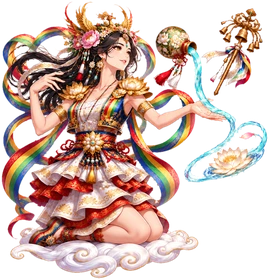
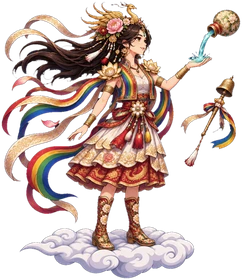
그림체를 원본 게임 그림체 하나로 고정, 다른 기법 삭제 / 바리공주 aw14p 확정
Claude-Session: https://claude.ai/code/session_01X3WCR5nTXLkTaQuYbPMPiQ

diff --git a/game-design/art/도구/cutnavy.py b/game-design/art/도구/cutnavy.py
@@ -1,0 +1,41 @@
+import sys
+from PIL import Image, ImageDraw, ImageFilter, ImageChops
+import importlib.util
+spec=importlib.util.spec_from_file_location('df',__import__('os').path.join(__import__('os').path.dirname(__file__),'defringe.py')); df=importlib.util.module_from_spec(spec); spec.loader.exec_module(df)
+src,out_hi,out_s=sys.argv[1:4]
+im=Image.open(src).convert('RGB'); W,H=im.size
+bgc=im.getpixel((5,5)); print('bg',bgc)
+ref=Image.new('RGB',im.size,bgc)
+diff=ImageChops.difference(im,ref).convert('L')
+diff=Image.merge('RGB',ImageChops.difference(im,ref).split())
+dr,dg,db=diff.split(); dmax=ImageChops.lighter(ImageChops.lighter(dr,dg),db)
+cand=dmax.point(lambda v:255 if v<=22 else 0)
+m=cand.copy()
+for x in range(0,W,4):
+    for y in (0,H-1):
+        if m.getpixel((x,y))==255: ImageDraw.floodfill(m,(x,y),128)
+for y in range(0,H,4):
+    for x in (0,W-1):
+        if m.getpixel((x,y))==255: ImageDraw.floodfill(m,(x,y),128)
+bg=m.point(lambda v:255 if v==128 else 0)
+# trapped bg: large flat navy blobs
+seed=cand.filter(ImageFilter.MinFilter(7)); rec=seed
+for _ in range(10): rec=ImageChops.darker(rec.filter(ImageFilter.MaxFilter(3)),cand)
+bg=ImageChops.lighter(bg,rec)
+fg=ImageChops.invert(bg)
+# drop small isolated pieces (petals)
+lab=fg.copy(); comps=[]
+for y in range(0,H,2):
+    for x in range(0,W,2):
+        if lab.getpixel((x,y))==255:
+            b=lab.histogram()[254]; ImageDraw.floodfill(lab,(x,y),254); comps.append((lab.histogram()[254]-b,(x,y))); ImageDraw.floodfill(lab,(x,y),253)
+comps.sort(reverse=True); print([c[0] for c in comps[:8]])
+keep=Image.new('L',(W,H),0)
+for area,(x,y) in comps:
+    if area>int(sys.argv[4]) if len(sys.argv)>4 else 5000:
+        t=fg.copy(); ImageDraw.floodfill(t,(x,y),128); keep=ImageChops.lighter(keep,t.point(lambda v:255 if v==128 else 0))
+alpha=keep.filter(ImageFilter.GaussianBlur(0.7))
+o=im.convert('RGBA'); o.putalpha(alpha); o=df.defringe(o,1)
+bb=o.getchannel('A').point(lambda v:255 if v>20 else 0).getbbox()
+o=o.crop((max(0,bb[0]-6),max(0,bb[1]-6),min(W,bb[2]+6),min(H,bb[3]+6))); o.save(out_hi)
+s=o.copy(); s.thumbnail((280,280),Image.LANCZOS); s.save(out_s); print(o.size,s.size)

diff --git a/game-design/art/도구/defringe.py b/game-design/art/도구/defringe.py
@@ -1,0 +1,24 @@
+import sys
+from PIL import Image, ImageFilter, ImageChops
+def defringe(im, erode=2):
+    im=im.convert('RGBA'); a=im.getchannel('A')
+    solid=a.point(lambda v:255 if v>40 else 0)
+    inner=solid
+    for _ in range(erode): inner=inner.filter(ImageFilter.MinFilter(3))
+    ring=ImageChops.subtract(solid, inner.filter(ImageFilter.MinFilter(3)))  # edge band
+    # RGB with transparent areas painted white so MinFilter only pulls darker interior colors
+    rgb=Image.new('RGB',im.size,(255,255,255)); rgb.paste(im.convert('RGB'),(0,0),solid)
+    dark=Image.merge('RGB',[c.filter(ImageFilter.MinFilter(5)) for c in rgb.split()])
+    # only replace edge pixels that are much brighter than nearby interior
+    L=rgb.convert('L'); Ld=dark.convert('L')
+    bright=ImageChops.subtract(L,Ld).point(lambda v:255 if v>45 else 0)
+    m=ImageChops.multiply(ring,bright)
+    out_rgb=Image.composite(dark,im.convert('RGB'),m)
+    # shrink alpha by erode px and soften
+    na=a
+    for _ in range(erode): na=na.filter(ImageFilter.MinFilter(3))
+    na=na.filter(ImageFilter.GaussianBlur(0.6))
+    na=ImageChops.darker(na,a)
+    out=out_rgb.convert('RGBA'); out.putalpha(na); return out
+if __name__=='__main__':
+    defringe(Image.open(sys.argv[1]),int(sys.argv[3]) if len(sys.argv)>3 else 2).save(sys.argv[2])

diff --git a/game-design/art/그림_규칙.md b/game-design/art/그림_규칙.md
@@ -1,5 +1,14 @@
 # 그믐 · 그림 만들기 규칙 (필수)
 
+## 00. 단 하나의 그림체 (사용자 확정 11/21, 다른 모든 규칙보다 먼저)
+- **모든 그림(게임 그림·일러스트·컷인·각성·새 자세·새 디자인)은 한 가지 그림체로 그린다: 「게임 그림체」.**
+  - 기준 그림: 원본 게임 그림(`새캐릭터/스프라이트/c*_s`, 주인공 `hp*`, 동료 `p*`)과 같은 칠. 확정 예시: 달래 각성 게임 그림 `게임용/aw1p`, 바리공주 각성 게임 그림 `게임용/aw14p`(11/21, 원본 `c14_bari_s` 한 장 고쳐 그림).
+  - 특징: 차분하고 무광인 채색(번들거림 없음), 붓 느낌 질감, 가늘고 깔끔한 선, 캐릭터 원본의 얼굴·체형·피부톤.
+- **그림체는 내 판단으로 절대 바꾸지 않는다.** 새 자세·새 옷 디자인·새 무기가 들어가도 그림체는 그대로. 바꿔야 할 것 같으면 그리기 전에 사용자 허락을 받는다.
+- **그리는 방법은 하나뿐이다:** 그 캐릭터의 원본 게임 그림 한 장만 참고로 넣고, 원본과 같은 어두운 남색 바탕 그대로 "EDIT this exact image… Keep the exact same art style, line work, muted coloring… Change ONLY ○○" 로 고쳐 그린다. 바꿀 옷·자세·소품은 글로만 적는다. 바탕은 코드로 지운다(`art/도구/cutnavy.py` (사용: `python3 cutnavy.py 원본.png 큰판.png 게임판280.png 5000`)). 작은 부분 수정은 코드로 픽셀을 고친다.
+- **삭제한 방법(쓰지 않음):** 일러스트를 참고로 넣기, 생성한 그림(시안·확정안 포함)을 참고로 넣기, 참고 두 장 이상, 다른 캐릭터·외부 사진(자세·손·무기) 참고, 정면 얼굴 기준 그림, 흰 바탕으로 바꿔 그리기(밝은 일러스트 칠로 바뀜), "saturated cel-plus-gloss" 같은 일러스트 칠 지시문, Higgsfield 배경 제거(머리·구름을 지움).
+- 지금 저장소의 일러스트(각성 일러스트 `aw*`, 컷인 `cut*`, 주인공 `hc*` 등)는 다른 그림체(광택 일러스트)다. 다시 그릴지는 사용자가 정한다. 임의로 다시 그리지 않는다.
+
 ## 0. 최우선 규칙: 원본 그림체를 훼손하지 않는다 (사용자, 11/21)
 - **기본값(default): 그림체와 화풍은 무조건 고정. 어떤 요청에서도 바꾸지 않는다.** (사용자, 11/21 재확인)
 - **그림체·화풍을 바꿔야 할 것 같으면 먼저 사용자 허락을 받는다. 허락 없이 내 판단으로 바꾸지 않는다**(어떤 요청이든, 사용자 11/21).
@@ -40,40 +49,30 @@
 **새 그림은 반드시 기존 그림을 참고로 넣어 그린다. 그림 기법(그림체)은 바꾸지 않는다.** (사용자 결정, 11/21)
 
 ## 1. 무엇을 참고로 넣나
-참고 그림은 **같은 종류의 원본 기준 그림 한 장만** 넣습니다. 두 번째 참고는 쓰지 않습니다(옷·자세·무기·손은 글로 적음).
+**모든 그림: 그 캐릭터의 원본 게임 그림 한 장만**(00절). 일러스트·컷인·각성 일러스트도 같다. 두 번째 참고는 없다.
 
-| 만드는 그림 | 참고(한 장만) |
+| 캐릭터 | 원본 게임 그림(유일한 참고) |
 |---|---|
-| 각성 일러스트(16:9) | 그 캐릭터의 기존 각성 일러스트 `art/각성/awake_*.png` |
-| 일러스트·컷인(정사각) | 그 캐릭터의 기존 일러스트(`hc0x`·`hc1_o0`·`hc2n`, 동료 `cut*x`, 새 캐릭터 `art/새캐릭터/일러스트/`) |
-| 여러 캐릭터가 함께 나오는 그림(협력 등) | 한별 일러스트 `hc0x` (다른 캐릭터는 글로) |
-| 게임 그림(구름 탄 작은 그림) | 그 캐릭터의 기존 게임 그림(`hp0`·`hp1_o0`·`hp2n`·`p*`) |
-| 기존 그림이 없는 새 캐릭터 | 같은 종류의 한별 그림(`hc0x` 또는 `hp0`) |
+| 한별 · 달래 · 나린 | `hp0` · `hp1_o0` · `hp2n` |
+| 동료 | `p*` |
+| 새 캐릭터 | `새캐릭터/스프라이트/c13~c22_*_s_hi` (= 게임 `p13`~`p22`) |
+| 원본 게임 그림이 없는 캐릭터 | 그리기 전에 사용자에게 묻는다 |
 
-- 게임 그림을 그릴 때 일러스트를, 일러스트를 그릴 때 게임 그림을 첫 참고로 넣지 않는다(얼굴·선이 달라짐).
-- 참고 없이 글로만 그리지 않는다.
-- **참고는 언제나 「원본 기준 그림」(아래 1-1 표) 한 장이다. 새로 생성한 그림(시안·고른 안·확정안 포함)은 어떤 자리에도 참고로 넣지 않는다.** 새 그림을 다시 참고로 넣으면 그릴 때마다 그림체가 조금씩 더 벗어난다(11/21 달래 시안, 바리공주 게임 그림에서 실제로 생김). 고른 시안의 옷·색·자세는 글로 옮겨 적는다.
-
-### 1-1. 원본 기준 그림 (이것만 참고로 씀)
-| 캐릭터 | 일러스트 기준 | 각성 일러스트 기준 | 게임 그림 기준 |
-|---|---|---|---|
-| 한별 | `hc0x` | `art/각성/awake_hanbyeol.png` | `hp0` |
-| 달래 | `hc1w` / `hc1_o0` | `art/각성/awake_dallae.png` | `hp1_o0` |
-| 나린 | `hc2n` | `art/각성/awake_narin.png` | `hp2n` |
-| 동료 | `cut*x` | (없음 → 한별 각성 기준) | `p*` |
-| 새 캐릭터 | `art/새캐릭터/일러스트/` 1차 생성본 | (없음 → 한별 각성 기준) | `p13`~`p22` |
+- 참고 없이 글로만 그리지 않는다. 새로 생성한 그림은 어떤 자리에도 참고로 넣지 않는다(벗어남이 쌓임, 11/21 바리공주).
+- 16:9 일러스트처럼 크게 그릴 때도 같은 원본 게임 그림을 넣고 "same art style, larger and closer" 로만 적는다.
 
 ## 2. 지시문 첫 문장 (고정)
 ```
-Copy the EXACT art style of the first reference image: same rendering, same bold clean line art, same saturated cel-plus-gloss coloring, same lighting and same camera scale (character large and close, filling most of the frame). Same face and hair as the reference.
+EDIT this exact image. Keep the exact same art style, line work, muted coloring, saturation, contrast, texture and lighting of this image, same face, same hair, same skin tone, same body proportions and same character size. Keep the same plain flat dark navy background. Change ONLY:
 ```
-그다음에 옷·자세·배경만 적는다. "watercolor", "painterly", "soft" 같은 그림체 말은 쓰지 않는다.
+그다음에 바꿀 옷·자세·소품만 글로 적고 "Do not change the art style." 로 끝낸다. "glowing·soft·pale·sheer·pastel·saturated·glossy·watercolor·painterly" 같은 칠 말은 쓰지 않는다.
 
 ## 3. 보내기 전 확인
 1. 새 그림을 **원본 기준 그림 옆에 나란히** 놓고 비교한다(직전 시안과 비교하지 않음): 선 굵기, 채색, 얼굴 생김새, 몸 비율(가슴 등이 원본보다 커지지 않았는지), 캐릭터 크기.
 2. 다르면 사용자에게 보내지 않고 다시 그린다.
 3. 15세 기준(기획 3): 수영복 수준까지, 몸 강조 구도·누운 자세·다리 벌린 자세·비치는 천 없음.
-4. 배경을 지우는 그림은 Higgsfield 배경 제거 후 테두리 1픽셀 다듬기(흰 띠 제거), 어두운 바탕에 확대해서 흰 띠·남은 흰 덩어리가 없는지 본다.
+4. 배경은 코드로 지운다(남색 바탕 flood fill + 작은 조각 제거 + 테두리 1픽셀 다듬기, `cutnavy.py`). 다른 색 바탕에 확대해서 남은 바탕·끊긴 곳이 없는지 본다.
+5. 비교 기준 그림은 원본 게임 그림과 확정 예시 `aw1p`·`aw14p`. 채도·밝기 평균도 재서 비교한다.
 
 ## 4. Higgsfield에 올려 둔 참고 그림 (다시 올리지 않고 씀)
 | 참고 | media/job id |
@@ -86,7 +85,8 @@ Copy the EXACT art style of the first reference image: same rendering, same bold
 | 달래 게임 그림 `hp1_o0`(흰 바탕) | f66b7bf4-6fdd-4886-ab5d-14a059f549f1 |
 | 나린 게임 그림 `hp2n`(흰 바탕) | 1d5d03ad-edd4-4a27-b41f-52030570dc69 |
 | (참고로 쓰지 않음) 각성 모습 한별·달래·나린 | 4ce18e59-42d2-40d0-bff3-7a210c28f545 · 8dcc10a5-f3a8-4df4-8d5f-d469ebf815db · 1a356037-c0d8-4be3-8fac-15c82cc2fae1 |
-| 새 캐릭터 일러스트 c13~c22 | 0d6ffbdb… 저승사자 · 5ea0dd70… 바리공주 · 47c1f68c… 해태 · 6e5f1613… 홍길동 · ed347318… 우렁각시 · 670d88a7… 직녀 · 700a37cd… 산군 · 98cc39e9… 처용 · 44d3267b… 선녀 · 6f809a62… 강림도령 (전체 id는 대화 기록·커밋 메시지 참고) |
+| 바리공주 원본 게임 그림 `c14_bari_s_hi`(남색 바탕) | a2744e75-eee0-4a76-9d3c-7ddf24fd74d9 |
+| (참고로 쓰지 않음) 새 캐릭터 일러스트 c13~c22 | 0d6ffbdb… 저승사자 · 5ea0dd70… 바리공주 · 47c1f68c… 해태 · 6e5f1613… 홍길동 · ed347318… 우렁각시 · 670d88a7… 직녀 · 700a37cd… 산군 · 98cc39e9… 처용 · 44d3267b… 선녀 · 6f809a62… 강림도령 (전체 id는 대화 기록·커밋 메시지 참고) |
 
 ## 5. 손·팔 (11/21 장승 자매에서 두 번 틀림)
 - AI는 손이 큰 무기를 복잡하게 쥐는 모양(두 손 엇갈려 쥐기, 비튼 손목)을 자주 틀리게 그린다. 손이 팔과 따로 놀거나 방향이 반대가 된다.
@@ -95,4 +95,4 @@ Copy the EXACT art style of the first reference image: same rendering, same bold
 - 손 모양 참고 사진(피규어 등)을 넣는 방법은 삭제(그림체가 섞임). 무기를 쥐지 않는 자세(떠 있는 무기, 손바닥으로 쏘기)로 정한다(사용자: "무기잡지마라").
 - **손처럼 작은 부분을 고칠 때는 전체 그림을 고치지 말고, 그 부분만 크게 잘라 고친 뒤 원래 그림에 붙인다**(전체 고치기는 손을 거의 그대로 둠, 11/21 장승 자매 3번 실패 → 잘라 고치기 1번에 성공).
 - **같은 부분을 두 번 고쳐도 안 바뀌면 더 돌리지 않고 사용자에게 먼저 말한다.** 다시 그린 뒤에는 이전 판과 확대 비교해서 실제로 바뀐 것만 보고한다.
-- **각성 게임 그림은 자세를 새로 정하지 않는다.** 원본 게임 그림 한 장만 넣고 "EDIT this exact image… 자세·크기·얼굴 그대로, 옷과 소품만" 으로 고친다(11/21 바리공주: 새 자세로 그린 판은 체형·크기가 바뀌어 반려, 원본 고치기 판은 통과).
+- **각성 게임 그림은 원본 게임 그림 한 장을 고쳐 그린다.** 자세를 바꿀 때도 그림을 넣지 않고 글로만 적는다(11/21 바리공주: 원본 `c14_bari_s` 한 장 + 글로 "서서 손바닥 내밂" → 통과).

diff --git a/game-design/art/바리공주각성/README.md b/game-design/art/바리공주각성/README.md
@@ -12,3 +12,7 @@
 - 사용자 판정(B6): 확정 → 각성 일러스트 `../게임용/aw14.webp`
 - 게임 그림 `../게임용/aw14p.webp`(280px)/`aw14p_hi.webp`: 첫 참고 원본 게임 그림 p14, 옷 B3 디자인(원본 색). 구름 위 무릎, 떠 있는 병에서 물이 손바닥 위로. job cf39e0a4 → 배경 흰색으로 고쳐(201172b9) 직접 지움
 - 사용자: 게임 그림 그림체가 또 틀어짐(자세를 새로 지정했던 판 cf39e0a4 폐기) → **원본 게임 그림 한 장을 그대로 고쳐 그리기**(자세·크기·얼굴 유지, 옷과 손 소품만 변경): job e10bea02-b562-480d-9d08-af5d419a3149, 배경 흰색 6ac7c02e → `../게임용/aw14p.webp` 교체
+
+## 각성 게임 그림 확정 (11/21)
+- `aw14p_hi.webp` / 게임 `게임용/aw14p.webp`(242×280): 원본 게임 그림 `c14_bari_s` 한 장만 참고로 고쳐 그림(게임 그림체). 서서 오른쪽을 봄, 떠 있는 병의 물이 펼친 손바닥에 떨어짐, 방울 지팡이 떠 있음, 손에 쥔 것 없음.
+- 이 그림체가 모든 그림의 기준(그림 규칙 00절). 이전 판(일러스트 B6을 참고로 그린 무릎·서 있는 판)은 그림체가 섞여 폐기.

diff --git a/game-design/00_결정사항.md b/game-design/00_결정사항.md
@@ -156,3 +156,4 @@
 | 2026-11-21 | 바리공주 각성 게임 그림 aw14p 재교체(이전 판 그림체 반려). 원본 p14와 같은 병 붓는 자세 |
 | 2026-11-21 | 바리공주 각성 게임 그림 aw14p 재교체: 확정 일러스트 aw14와 같은 그림체(무릎 꿇고 손바닥으로 물 이끔, 손에 쥔 것 없음) |
 | 2026-11-21 | 그림 규칙: AI 참고 그림은 원본 기준 그림 한 장만. 생성본(확정안 포함)·외부 사진·두 번째 참고·정면 얼굴 기준 그림·손 모양 사진 방법 삭제. 옷·자세는 글로만. 그림체 변경은 사용자 허락 후에만 |
+| 2026-11-21 | 그림체 하나로 고정: 원본 게임 그림체(확정 예시 aw1p·aw14p). 모든 그림(일러스트·새 자세·새 디자인 포함)은 그 캐릭터 원본 게임 그림 한 장을 고쳐 그림. 다른 기법 삭제, 그림체 변경은 사용자 허락 후에만. 바리공주 각성 게임 그림 aw14p 확정(원본 c14_bari_s 고쳐 그림, 서 있는 자세) |
